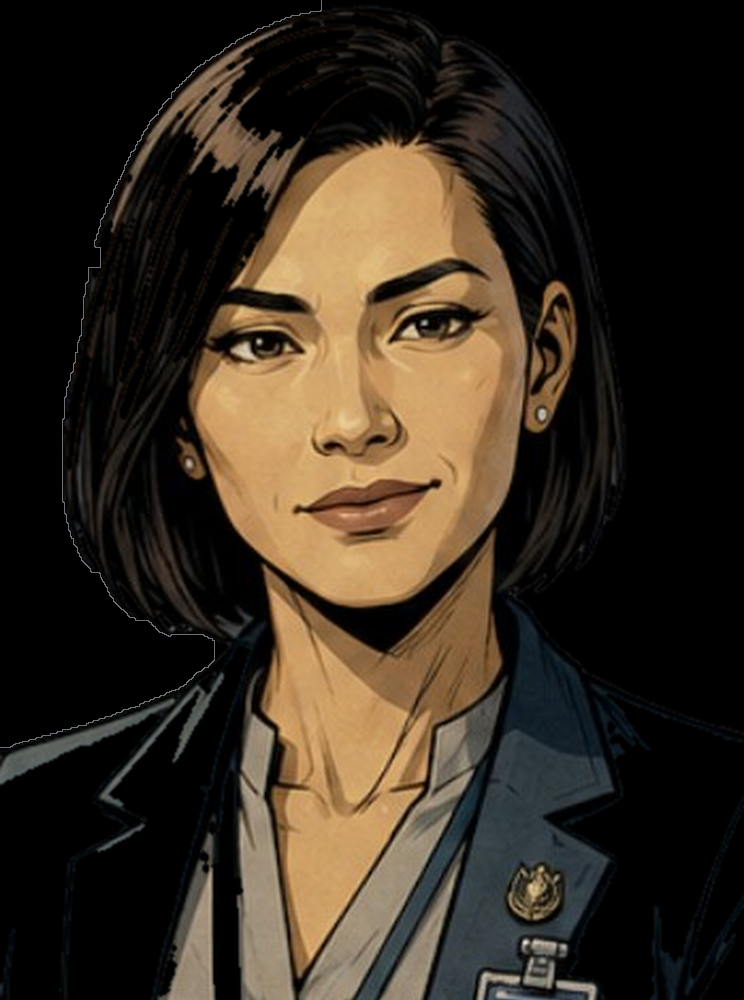
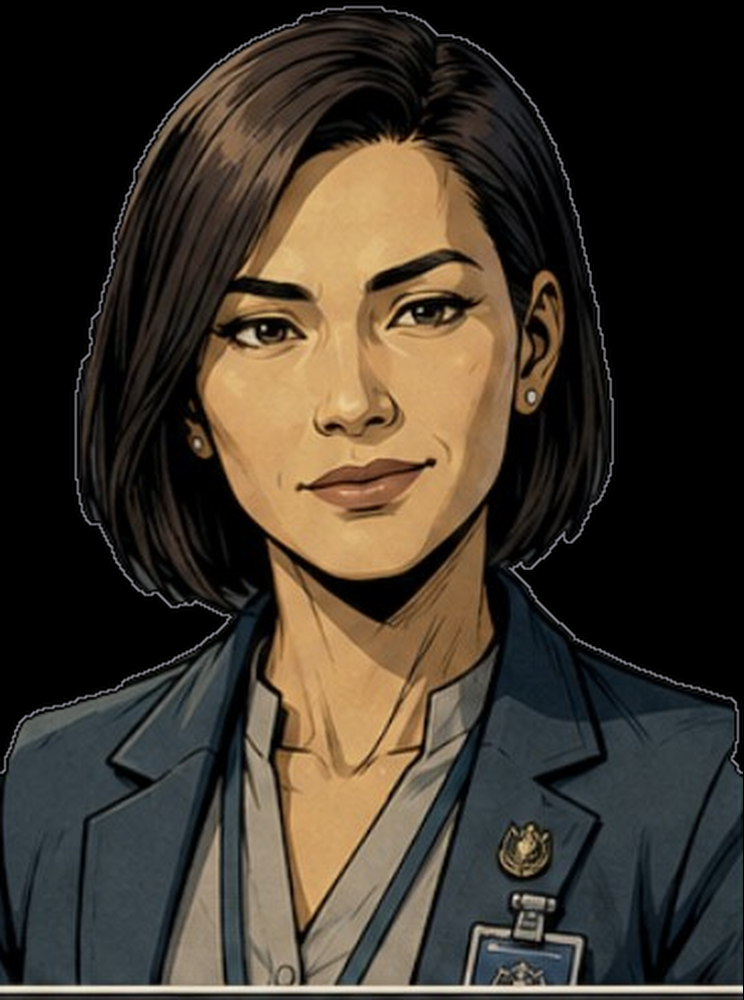
Add files via upload

diff --git a/css/chapter-04-phase-02.css b/css/chapter-04-phase-02.css
@@ -61,8 +61,6 @@
 .ch4-p2-complete-card>p{margin:0 auto 17px;max-width:48ch;color:#c4cbce;font-size:14px;line-height:1.62}
 .ch4-p2-complete-grid{display:grid;grid-template-columns:1fr 1fr;gap:8px;margin:17px 0}.ch4-p2-complete-grid div{padding:12px 8px;border:1px solid rgba(255,255,255,.10);background:rgba(255,255,255,.035)}.ch4-p2-complete-grid span{display:block;color:#85939a;font-size:9px;letter-spacing:.10em}.ch4-p2-complete-grid b{display:block;margin-top:5px;color:#e6d3ae;font-size:11.5px;line-height:1.3}.ch4-p2-complete-card>strong{display:block;margin:18px 0;color:#ddb56d;font-size:12px;letter-spacing:.09em}.ch4-p2-complete-card>button{width:min(100%,315px)}
 
-.character-card[data-character="maya"] img{object-fit:cover!important;object-position:center 16%!important;transform:scale(1.16);transform-origin:center top;background:linear-gradient(160deg,#1a2026,#090b0f);filter:drop-shadow(0 5px 8px rgba(0,0,0,.42))}
-[data-detail-image="maya"]{object-fit:cover!important;object-position:center 16%!important;transform:scale(1.14);transform-origin:center top;background:linear-gradient(160deg,#1a2026,#090b0f)}
 
 html[lang="th"] .ch4-p2-label,html[lang="th"] .ch4-p2-flight-head,html[lang="th"] .ch4-p2-complete-card h2{letter-spacing:.018em}
 html[lang="th"] .ch4-p2-choice button,html[lang="th"] .ch4-p2-console-actions button{letter-spacing:0}
@@ -70,21 +68,42 @@ html[lang="th"] .ch4-p2-choice button,html[lang="th"] .ch4-p2-console-actions bu
 @media(max-width:360px){.ch4-p2-console-actions{grid-template-columns:1fr}.ch4-p2-console-readout{grid-template-columns:1fr}.ch4-p2-complete-grid{grid-template-columns:1fr}.ch4-p2-route-grid{gap:5px}.ch4-p2-dialogue{grid-template-columns:96px 1fr}.ch4-p2-dialogue.right{grid-template-columns:1fr 96px}}
 @media(prefers-reduced-motion:reduce){.ch4-p2-progress i,.ch4-p2-flight-route{transition:none}.ch4-p2-complete:before{background:linear-gradient(145deg,rgba(221,181,109,.055),transparent 42%)}}
 
+/* 0.14.7 canonical Maya portrait presentation */
+.ch4-p2-dialogue .portrait-wrap{
+  background:#000!important;
+  box-shadow:none!important;
+  overflow:hidden!important;
+}
+.ch4-p2-dialogue .portrait.maya-portrait{
+  object-fit:cover!important;
+  object-position:center top!important;
+  transform:none!important;
+  transform-origin:center top!important;
+  background:#000!important;
+  filter:none!important;
+}
+.character-card[data-character="maya"] img,
+[data-detail-image="maya"]{
+  object-fit:cover!important;
+  object-position:center top!important;
+  transform:none!important;
+  background:#000!important;
+  filter:none!important;
+  box-shadow:none!important;
+}
+.character-detail-head>.maya-meta{
+  min-width:0;
+  flex:1 1 auto;
+  max-width:calc(100% - 170px);
+}
+.character-detail-head .character-status{
+  white-space:normal!important;
+  overflow-wrap:normal!important;
+  word-break:normal!important;
+  line-height:1.35!important;
+}
 
-/* 0.14.3 portrait restoration: preserve existing characters, black backgrounds only */
-.ch4-p2-dialogue .portrait-wrap{background:#030406!important;box-shadow:none!important}
-.ch4-p2-dialogue .portrait{background:transparent!important}
-.ch4-p2-dialogue .portrait.maya-portrait{object-fit:cover!important;object-position:center top!important;transform:scale(1.02)!important;transform-origin:center top!important;filter:none!important}
-.character-card[data-character="maya"] img{object-fit:cover!important;object-position:center top!important;transform:none!important;background:#030406!important;filter:none!important;box-shadow:none!important}
-[data-detail-image="maya"]{object-fit:cover!important;object-position:center top!important;transform:none!important;background:#030406!important;filter:none!important;box-shadow:none!important}
-.character-detail-head>.maya-meta{min-width:0;flex:1 1 auto;max-width:calc(100% - 170px)}
-.character-detail-head .character-status{white-space:normal!important;overflow-wrap:normal!important;word-break:normal!important;line-height:1.35!important}
-
-
-/* 0.14.6 strict black portrait backgrounds and Maya outline-safe presentation */
-.ch4-p2-dialogue .portrait-wrap{background:#000!important;box-shadow:none!important}
-.ch4-p2-dialogue .portrait{background:transparent!important;filter:none!important}
-.ch4-p2-dialogue .portrait.maya-portrait{object-fit:cover!important;object-position:center top!important;transform:scale(1.02)!important;transform-origin:center top!important;filter:none!important}
-.character-card img,[data-detail-portrait]{background:#000!important;box-shadow:none!important;filter:none!important}
-.character-card[data-character="maya"] img{object-fit:cover!important;object-position:center top!important;transform:none!important;background:#000!important;filter:none!important;box-shadow:none!important}
-[data-detail-image="maya"]{object-fit:cover!important;object-position:center top!important;transform:none!important;background:#000!important;filter:none!important;box-shadow:none!important}
+/* 0.14.7 Maya final */
+.ch4-p2-dialogue .portrait-wrap{background:#000!important;overflow:hidden!important;box-shadow:none!important}
+.ch4-p2-dialogue .portrait.maya-portrait{object-fit:cover!important;object-position:center top!important;transform:none!important;background:#000!important;filter:none!important}
+.character-card[data-character="maya"] img,[data-detail-image="maya"]{object-fit:cover!important;object-position:center top!important;transform:none!important;background:#000!important;filter:none!important;box-shadow:none!important}

diff --git a/js/engine/09-defect-hotfix.js b/js/engine/09-defect-hotfix.js
@@ -1,4 +1,4 @@
-/* LAST WITNESS — Legacy Compatibility Shim + Chapter IV Bootstrap 0.14.3
+/* LAST WITNESS — Legacy Compatibility Shim + Chapter IV Bootstrap 0.14.7
  * Historical repair logic remains consolidated elsewhere. This file installs no
  * repair listeners or polling loops. It only loads the approved Chapter IV
  * modules once, in deterministic narrative order.
@@ -18,6 +18,6 @@ function script(src,id,ready){
 }
 
 script("js/chapters/chapter-04/01-afterimage.js?v=0132","lwChapter04Phase01Script",()=>Boolean(window.LastWitnessChapter4Phase1))
- .then(()=>{stylesheet("css/chapter-04-phase-02.css?v=0143","lwChapter04Phase02Style");return script("js/chapters/chapter-04/02-jakarta-arrival.js?v=0143","lwChapter04Phase02Script",()=>Boolean(window.LastWitnessChapter4Phase2))})
+ .then(()=>{stylesheet("css/chapter-04-phase-02.css?v=0147","lwChapter04Phase02Style");return script("js/chapters/chapter-04/02-jakarta-arrival.js?v=0147","lwChapter04Phase02Script",()=>Boolean(window.LastWitnessChapter4Phase2))})
  .catch(error=>console.error("LAST WITNESS Chapter IV bootstrap failed",error));
 })();

diff --git a/js/chapters/chapter-04/02-jakarta-arrival.js b/js/chapters/chapter-04/02-jakarta-arrival.js
@@ -1,9 +1,9 @@
-/* LAST WITNESS — Chapter IV / Phase II: JAKARTA ARRIVAL 0.14.6 */
+/* LAST WITNESS — Chapter IV / Phase II: JAKARTA ARRIVAL 0.14.7 */
 (function(){
 "use strict";
-if(window.LastWitnessChapter4Phase2?.version==="0.14.6")return;
+if(window.LastWitnessChapter4Phase2?.version==="0.14.7")return;
 
-const BUILD="0.14.6";
+const BUILD="0.14.7";
 const FLIGHT="jakartaFlight";
 const AIRPORT="jakartaAirport";
 const OFFICE="jakartaCybercrimeOffice";
